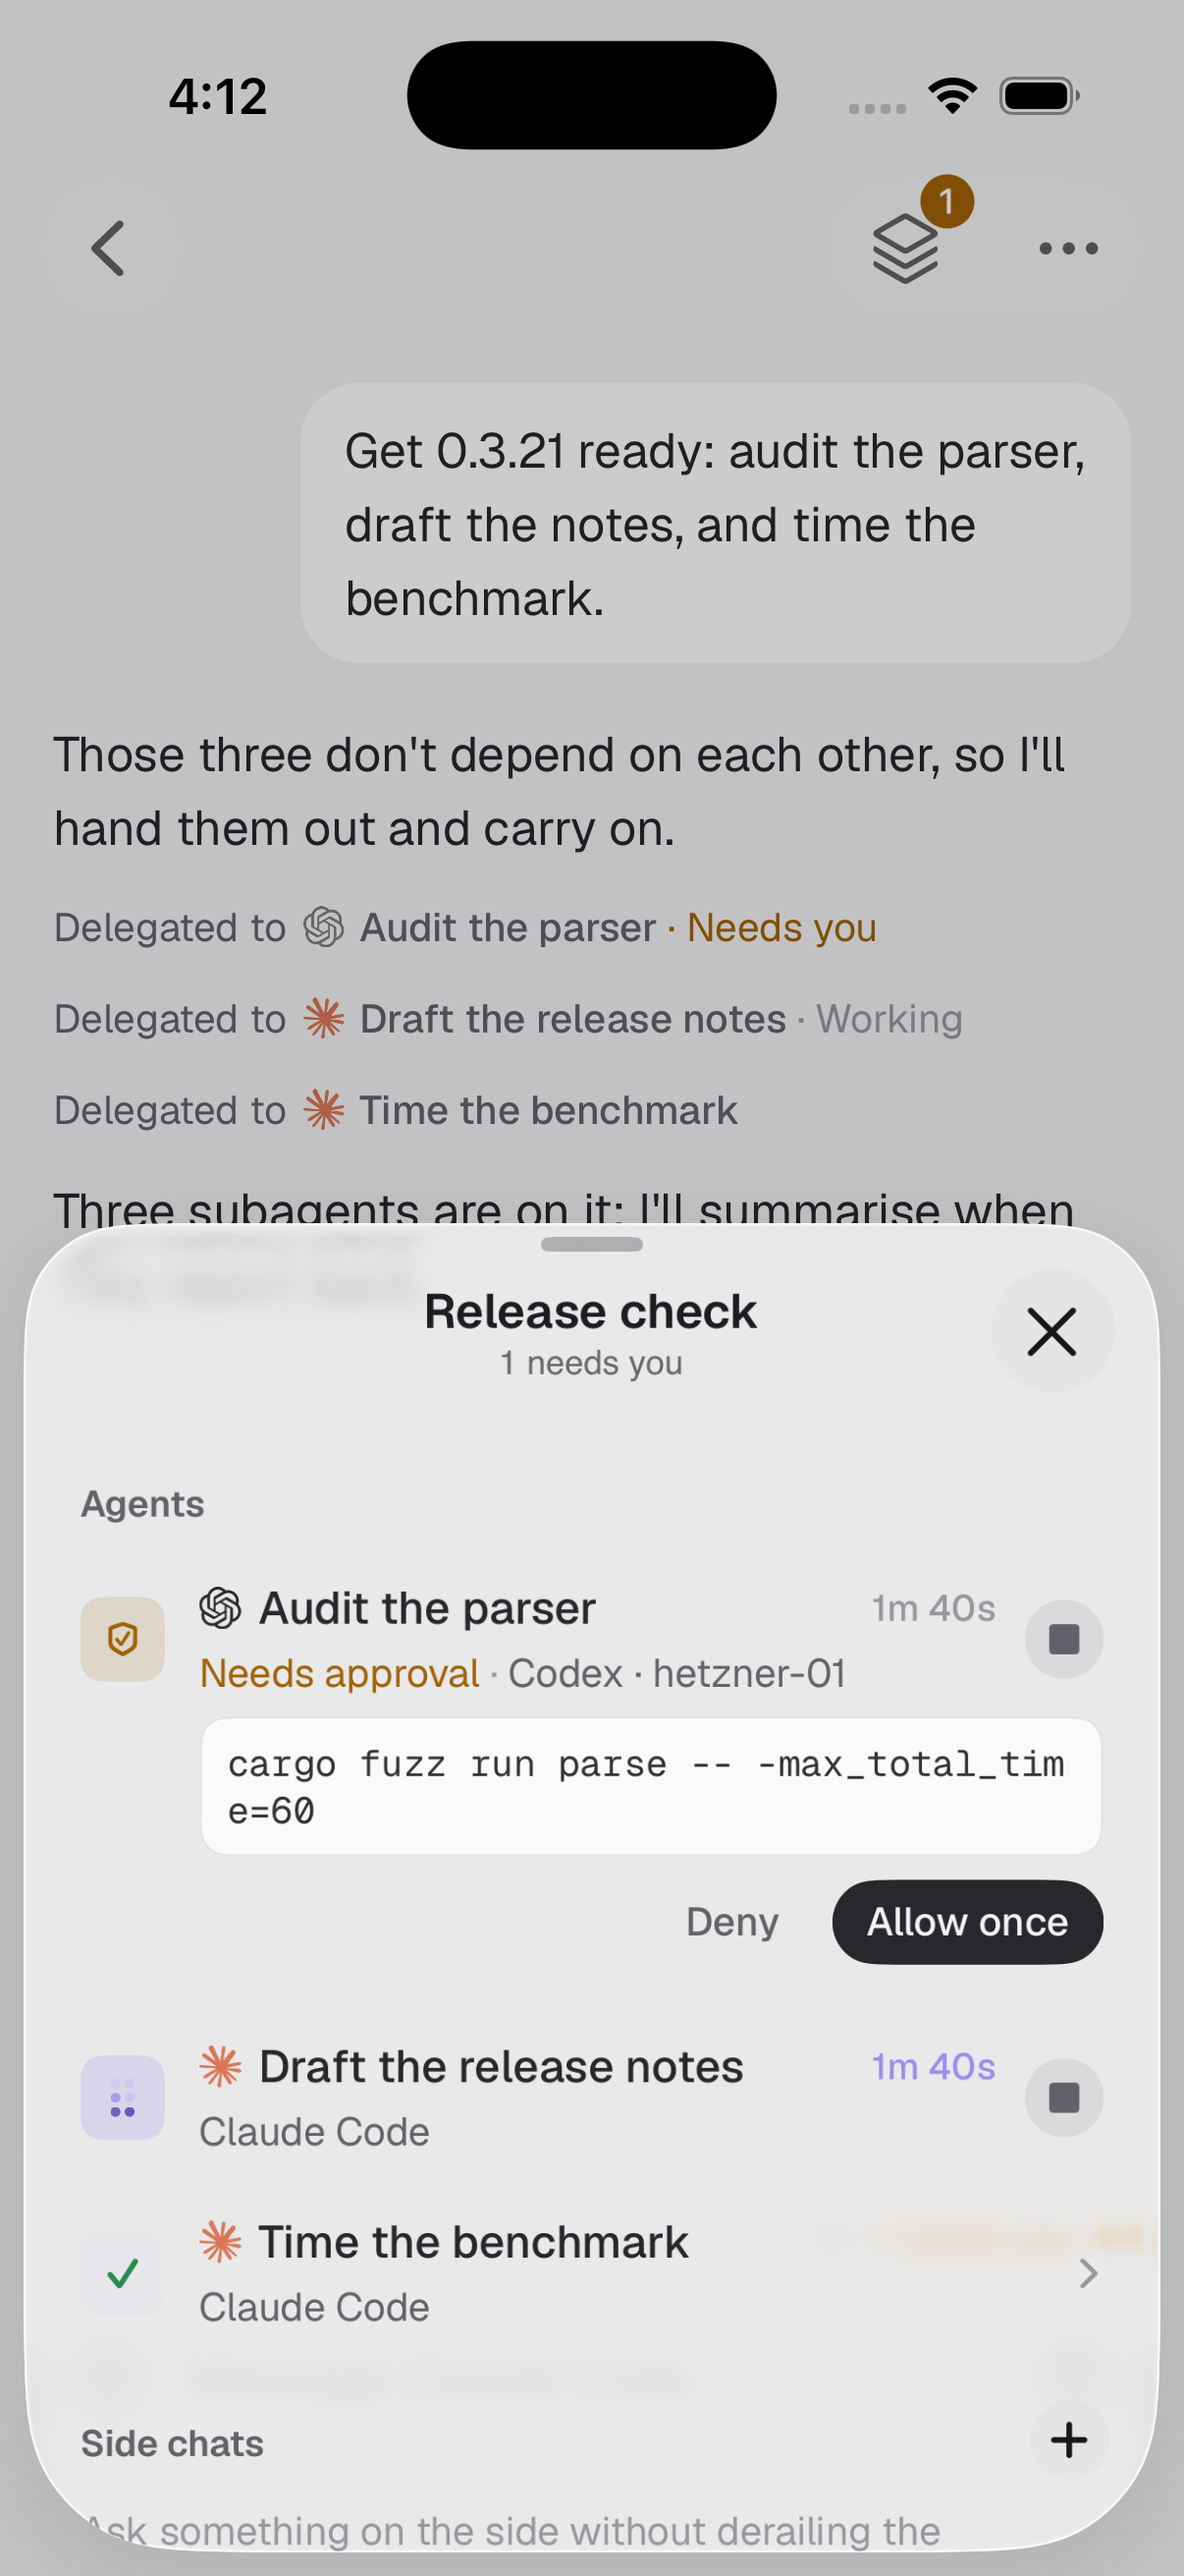
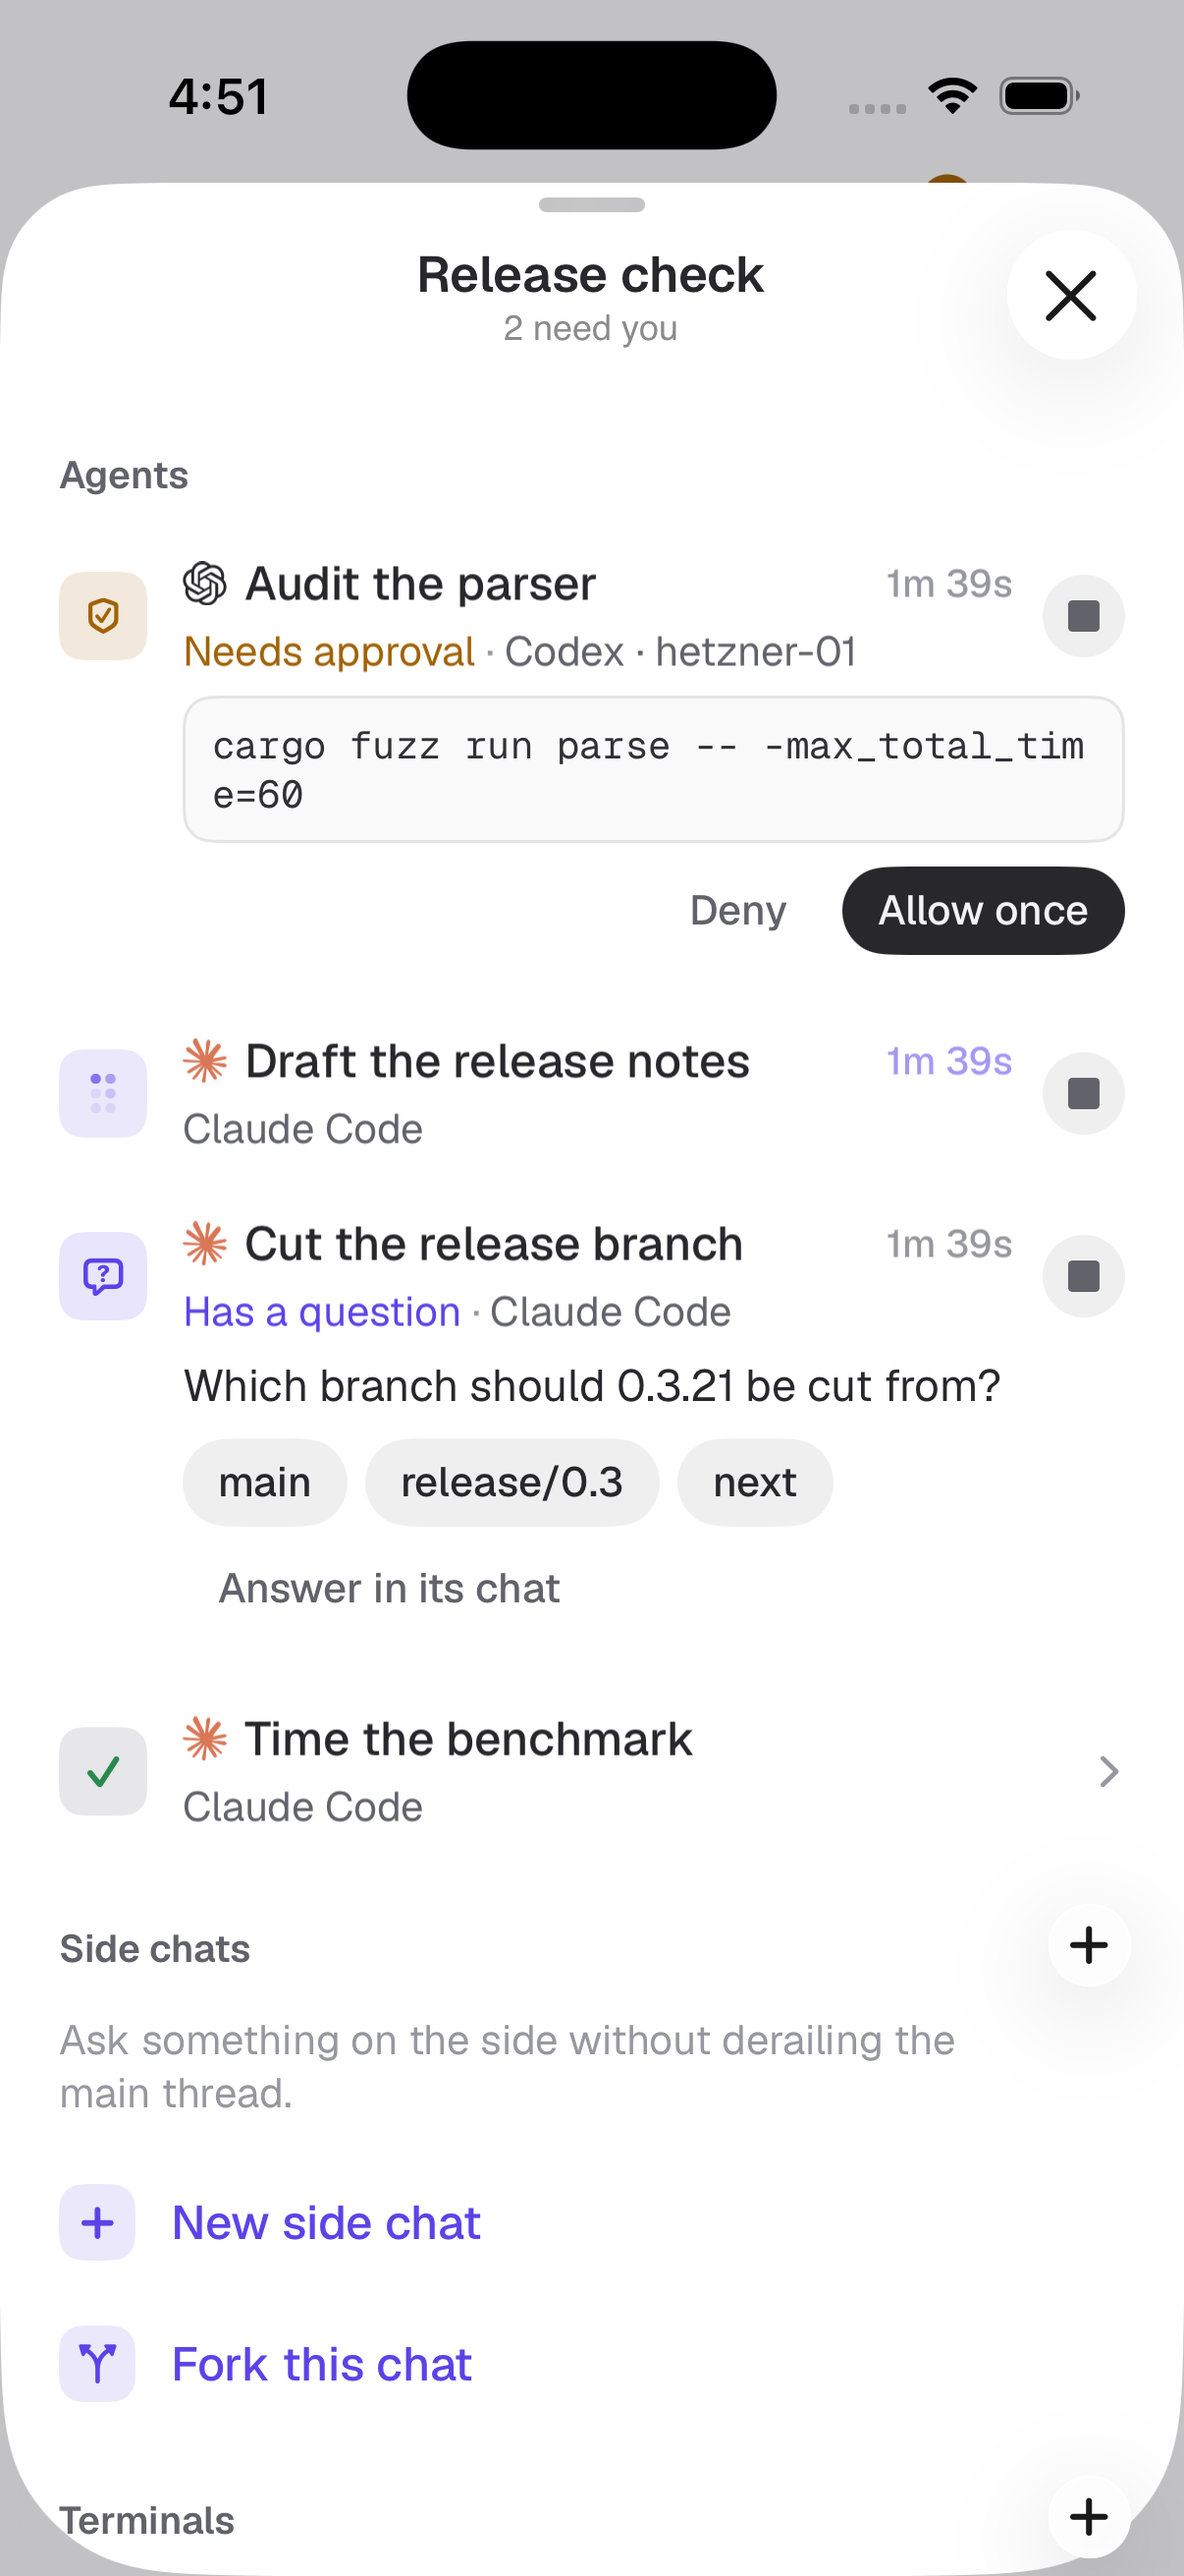
iOS: start lines follow their child; question card checked; re-shoots
- The open session's transcript re-reads the workspace on every rebuild
  (TranscriptView.workspaceChanged via AppModel.observeWorkspace), so a
  delegated chat's start line drops "Needs you" once it's answered.
- DelegationFlowTests: four subagents listed (none as side chats); the
  question card's options answer it (release/0.3 clears the ask); "Answer
  in its chat" opens the child, headed Subagent.
- The amber needs-you badge reads in dark mode (black on the yellow).
- DEBUG -companions-large opens the companions sheet at full height
  (screenshots).
- Re-shot ios-companions-approval-* (approval and question together) and
  ios-transcript-* (four start lines); added
  ios-transcript-after-allow-light.png.

diff --git a/apps/ios/ZeronUITests/DelegationFlowTests.swift b/apps/ios/ZeronUITests/DelegationFlowTests.swift
@@ -1,7 +1,8 @@
 import XCTest
 
-/// Background delegation over the demo: "Release check" delegated to three
-/// subagent chats, one of them (on another device) asking to run a command.
+/// Background delegation over the demo: "Release check" delegated to four
+/// subagent chats, one of them (on another device) asking to run a command,
+/// another asking which branch to cut.
 final class DelegationFlowTests: XCTestCase {
     override func setUp() {
         continueAfterFailure = false
@@ -11,15 +12,18 @@ final class DelegationFlowTests: XCTestCase {
         let app = XCUIApplication()
         app.launchArguments = ["-demo", "-fast", "-route", "chat:chat-release", "-companions"]
         app.launch()
-
         let list = app.collectionViews["companions"]
         XCTAssertTrue(list.waitForExistence(timeout: 10))
-        let audit = list.cells["companion-delegated-chat-release-audit"]
-        XCTAssertTrue(audit.waitForExistence(timeout: 10))
-        XCTAssertTrue(list.cells["companion-delegated-chat-release-notes"].exists)
-        XCTAssertTrue(list.cells["companion-delegated-chat-release-bench"].exists)
-        // Subagents, not side chats.
+        XCTAssertTrue(list.cells["companion-delegated-chat-release-audit"].waitForExistence(timeout: 10))
+        // All four, as subagents: none under Side chats.
+        for chat in ["chat-release-notes", "chat-release-bench", "chat-release-branch"] {
+            XCTAssertTrue(delegatedRow(list, chat).exists, chat)
+        }
         XCTAssertEqual(list.cells.matching(identifier: "companion-side-chat").count, 0)
+        // Back up to the first (a swipe at the top would pull the sheet).
+        let audit = list.cells["companion-delegated-chat-release-audit"]
+        for _ in 0..<4 where !(audit.exists && audit.isHittable) { list.swipeDown(velocity: .slow) }
+        XCTAssertTrue(audit.waitForExistence(timeout: 5))
 
         // The approval is on its row: the command, Deny and Allow once.
         XCTAssertTrue(audit.staticTexts["cargo fuzz run parse -- -max_total_time=60"].exists)
@@ -38,5 +42,47 @@ final class DelegationFlowTests: XCTestCase {
         Thread.sleep(forTimeInterval: 1.5)
         XCTAssertEqual(app.state, .runningForeground)
         XCTAssertTrue(audit.exists)
+    }
+
+    func testQuestionOptionAnswersIt() {
+        let app = launch()
+        let list = app.collectionViews["companions"]
+        let branch = delegatedRow(list, "chat-release-branch")
+        XCTAssertTrue(branch.exists)
+        XCTAssertTrue(branch.staticTexts["Which branch should 0.3.21 be cut from?"].exists)
+        for option in ["main", "release/0.3", "next"] {
+            XCTAssertTrue(branch.buttons[option].exists, option)
+        }
+        XCTAssertTrue(branch.buttons["delegated-open"].exists)
+        branch.buttons["release/0.3"].tap()
+        XCTAssertTrue(branch.buttons["release/0.3"].waitForNonExistence(timeout: 10))
+        XCTAssertEqual(app.state, .runningForeground)
+        XCTAssertTrue(branch.exists)
+    }
+
+    func testAnswerInItsChatOpensTheChild() {
+        let app = launch()
+        let list = app.collectionViews["companions"]
+        let branch = delegatedRow(list, "chat-release-branch")
+        XCTAssertTrue(branch.exists)
+        branch.buttons["delegated-open"].tap()
+        // The child as a full chat, headed Subagent.
+        XCTAssertTrue(app.navigationBars.staticTexts["Subagent"].waitForExistence(timeout: 10))
+        XCTAssertFalse(list.exists)
+    }
+
+    private func launch() -> XCUIApplication {
+        let app = XCUIApplication()
+        app.launchArguments = ["-demo", "-fast", "-route", "chat:chat-release", "-companions"]
+        app.launch()
+        XCTAssertTrue(app.collectionViews["companions"].waitForExistence(timeout: 10))
+        return app
+    }
+
+    /// A delegated row, scrolled to if the sheet hides it.
+    private func delegatedRow(_ list: XCUIElement, _ chat: String) -> XCUIElement {
+        let row = list.cells["companion-delegated-\(chat)"]
+        for _ in 0..<4 where !(row.exists && row.isHittable) { list.swipeUp(velocity: .slow) }
+        return row
     }
 }

diff --git a/apps/ios/Zeron/Session/SessionViewController.swift b/apps/ios/Zeron/Session/SessionViewController.swift
@@ -248,6 +248,9 @@ final class SessionViewController: UIViewController, UIGestureRecognizerDelegate
         companionTokens = [
             app.observeSession(chatId) { [weak self] in self?.scheduleCompanionSync() },
             app.observe { [weak self] in self?.scheduleCompanionSync() },
+            // The transcript's rows that name other chats (a delegated
+            // chat's start line: Working, Needs you) read them again.
+            app.observeWorkspace { [weak self] in self?.engine.workspaceChanged() },
             app.terminals.observe { [weak self] chat in
                 guard let self, chat == self.chatId else { return }
                 self.scheduleCompanionSync()
@@ -317,7 +320,8 @@ final class SessionViewController: UIViewController, UIGestureRecognizerDelegate
         companionsItem.badge = state.askingAgents > 0 ? {
             var badge = UIBarButtonItem.Badge.count(state.askingAgents)
             badge.backgroundColor = Palette.warning
-            badge.foregroundColor = .white
+            // (Dark's amber is a bright yellow: black reads on it.)
+            badge.foregroundColor = Palette.dual(.white, .black)
             return badge
         }() : state.runningAgents > 0 ? {
             var badge = UIBarButtonItem.Badge.count(state.runningAgents)
@@ -367,6 +371,10 @@ final class SessionViewController: UIViewController, UIGestureRecognizerDelegate
             sheet.detents = [.medium(), .large()]
             sheet.prefersGrabberVisible = true
             sheet.prefersScrollingExpandsWhenScrolledToEdge = false
+            #if DEBUG
+            // Screenshots: `-companions-large` opens it at full height.
+            if ProcessInfo.processInfo.arguments.contains("-companions-large") { sheet.selectedDetentIdentifier = .large }
+            #endif
         }
         hub.open = { [weak self, weak nav] vc in
             nav?.dismiss(animated: true)
@@ -519,7 +527,7 @@ final class SessionViewController: UIViewController, UIGestureRecognizerDelegate
         func value(_ flag: String) -> String? {
             args.firstIndex(of: flag).flatMap { $0 + 1 < args.count ? args[$0 + 1] : nil }
         }
-        if args.contains("-companions") {
+        if args.contains("-companions") || args.contains("-companions-large") {
             showCompanions(section: nil)
         } else if args.contains("-terminal") {
             let vc = TerminalViewController(app: app, chatId: chatId, tab: nil)

diff --git a/apps/ios/Zeron/App/AppModel.swift b/apps/ios/Zeron/App/AppModel.swift
@@ -102,6 +102,9 @@ final class AppModel {
     private var workspaceRevision: UInt64 = 0
     private var observers: [UUID: () -> Void] = [:]
     private var sessionObservers: [String: [UUID: () -> Void]] = [:]
+    /// Told on every workspace rebuild, changed rows or not (a chat a
+    /// transcript names may not be in any list).
+    private var workspaceObservers: [UUID: () -> Void] = [:]
     private lazy var bridge = ListenerBridge(app: self)
     private var refreshScheduled = false
     private var clock: Timer?
@@ -434,6 +437,13 @@ final class AppModel {
         return Token { [weak self] in self?.observers[id] = nil }
     }
 
+    /// Every workspace rebuild (`WorkspaceChanged`), whatever changed.
+    func observeWorkspace(_ handler: @escaping () -> Void) -> AnyObject {
+        let id = UUID()
+        workspaceObservers[id] = handler
+        return Token { [weak self] in self?.workspaceObservers[id] = nil }
+    }
+
     func observeSession(_ chatId: String, _ handler: @escaping () -> Void) -> AnyObject {
         let id = UUID()
         sessionObservers[chatId, default: [:]][id] = handler
@@ -523,6 +533,7 @@ final class AppModel {
         frontPage = page
         archived = archivedVMs
         if changed { observers.values.forEach { $0() } }
+        workspaceObservers.values.forEach { $0() }
         sweepIdle(pinsReady: ws.pinsReady)
     }
 
